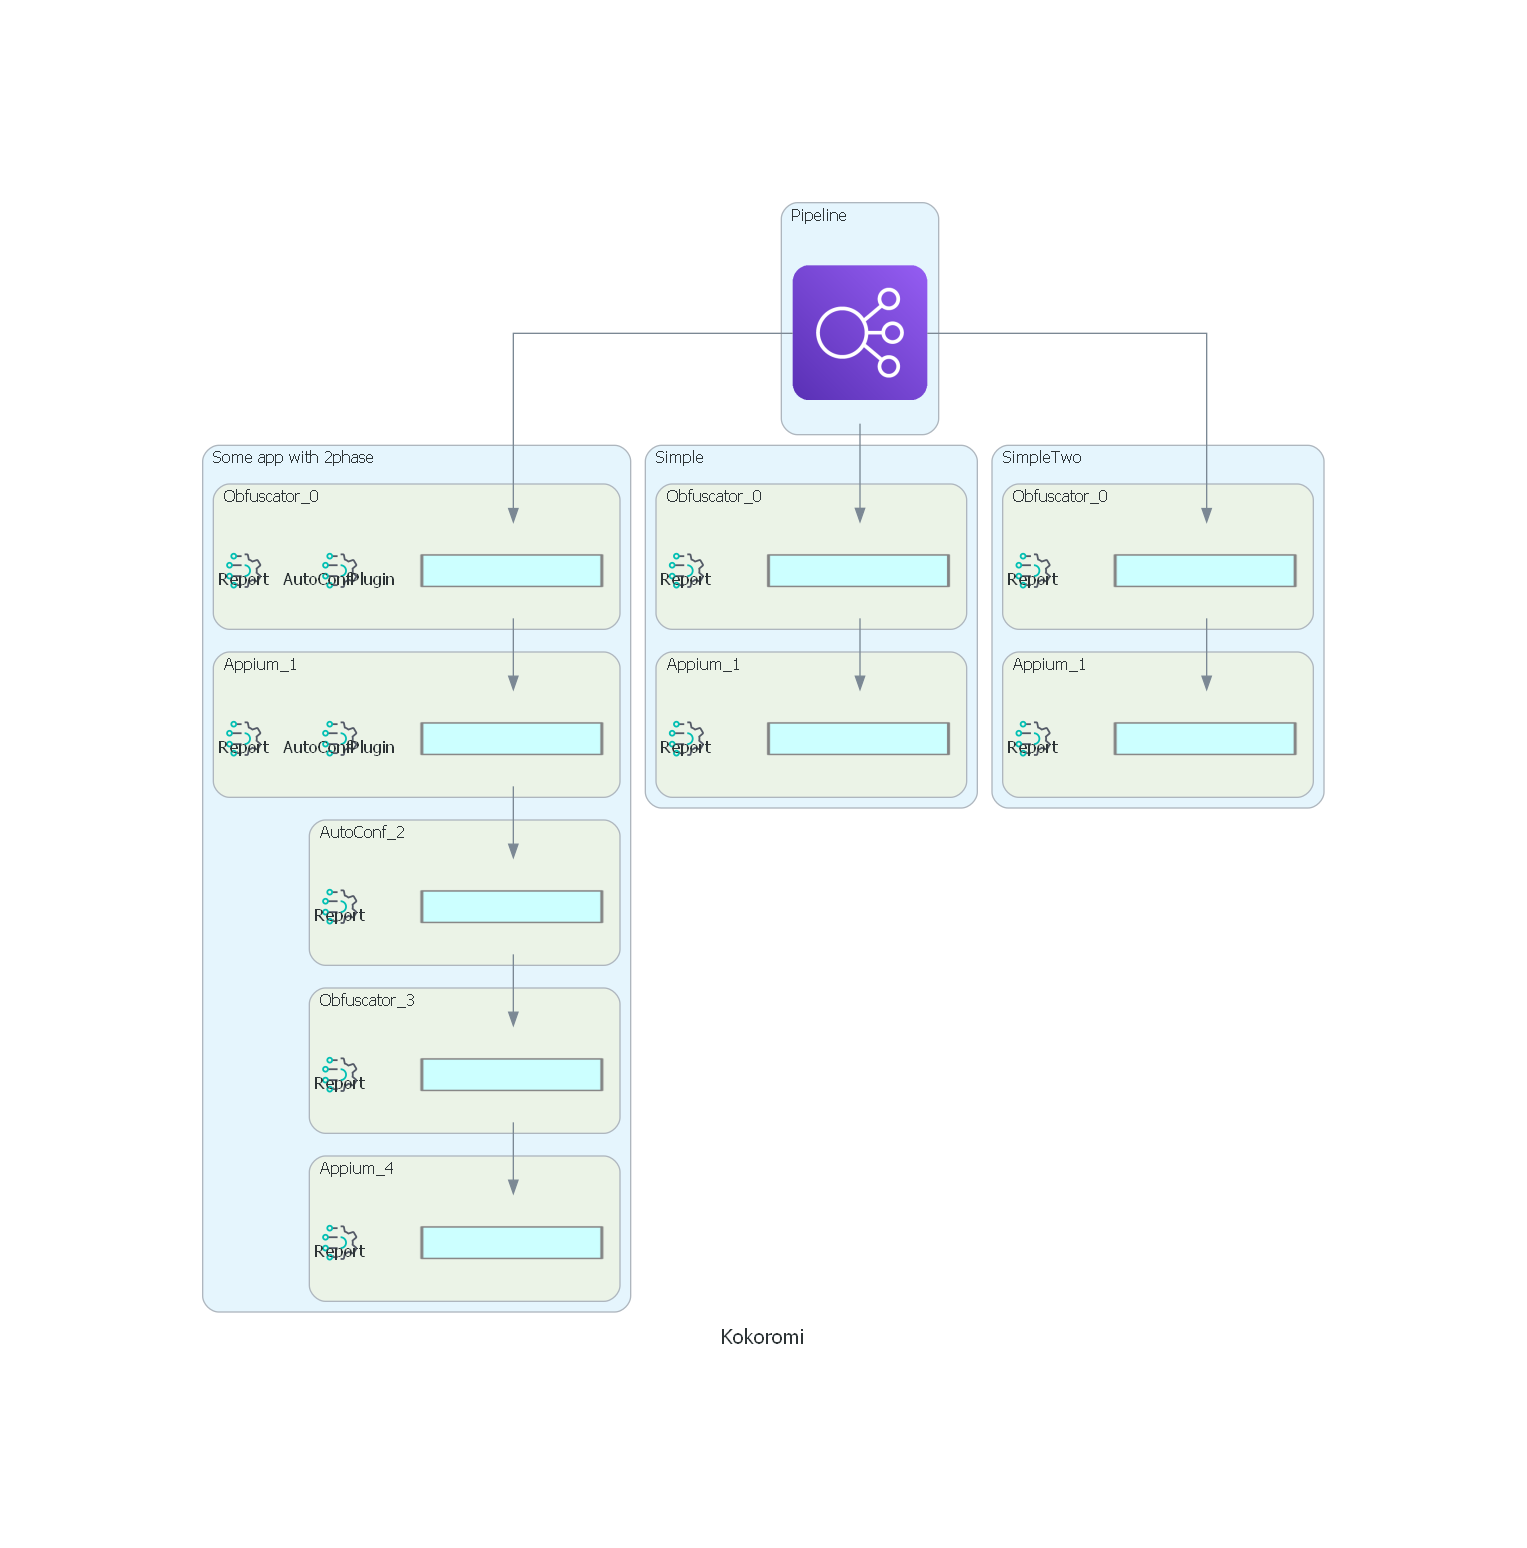
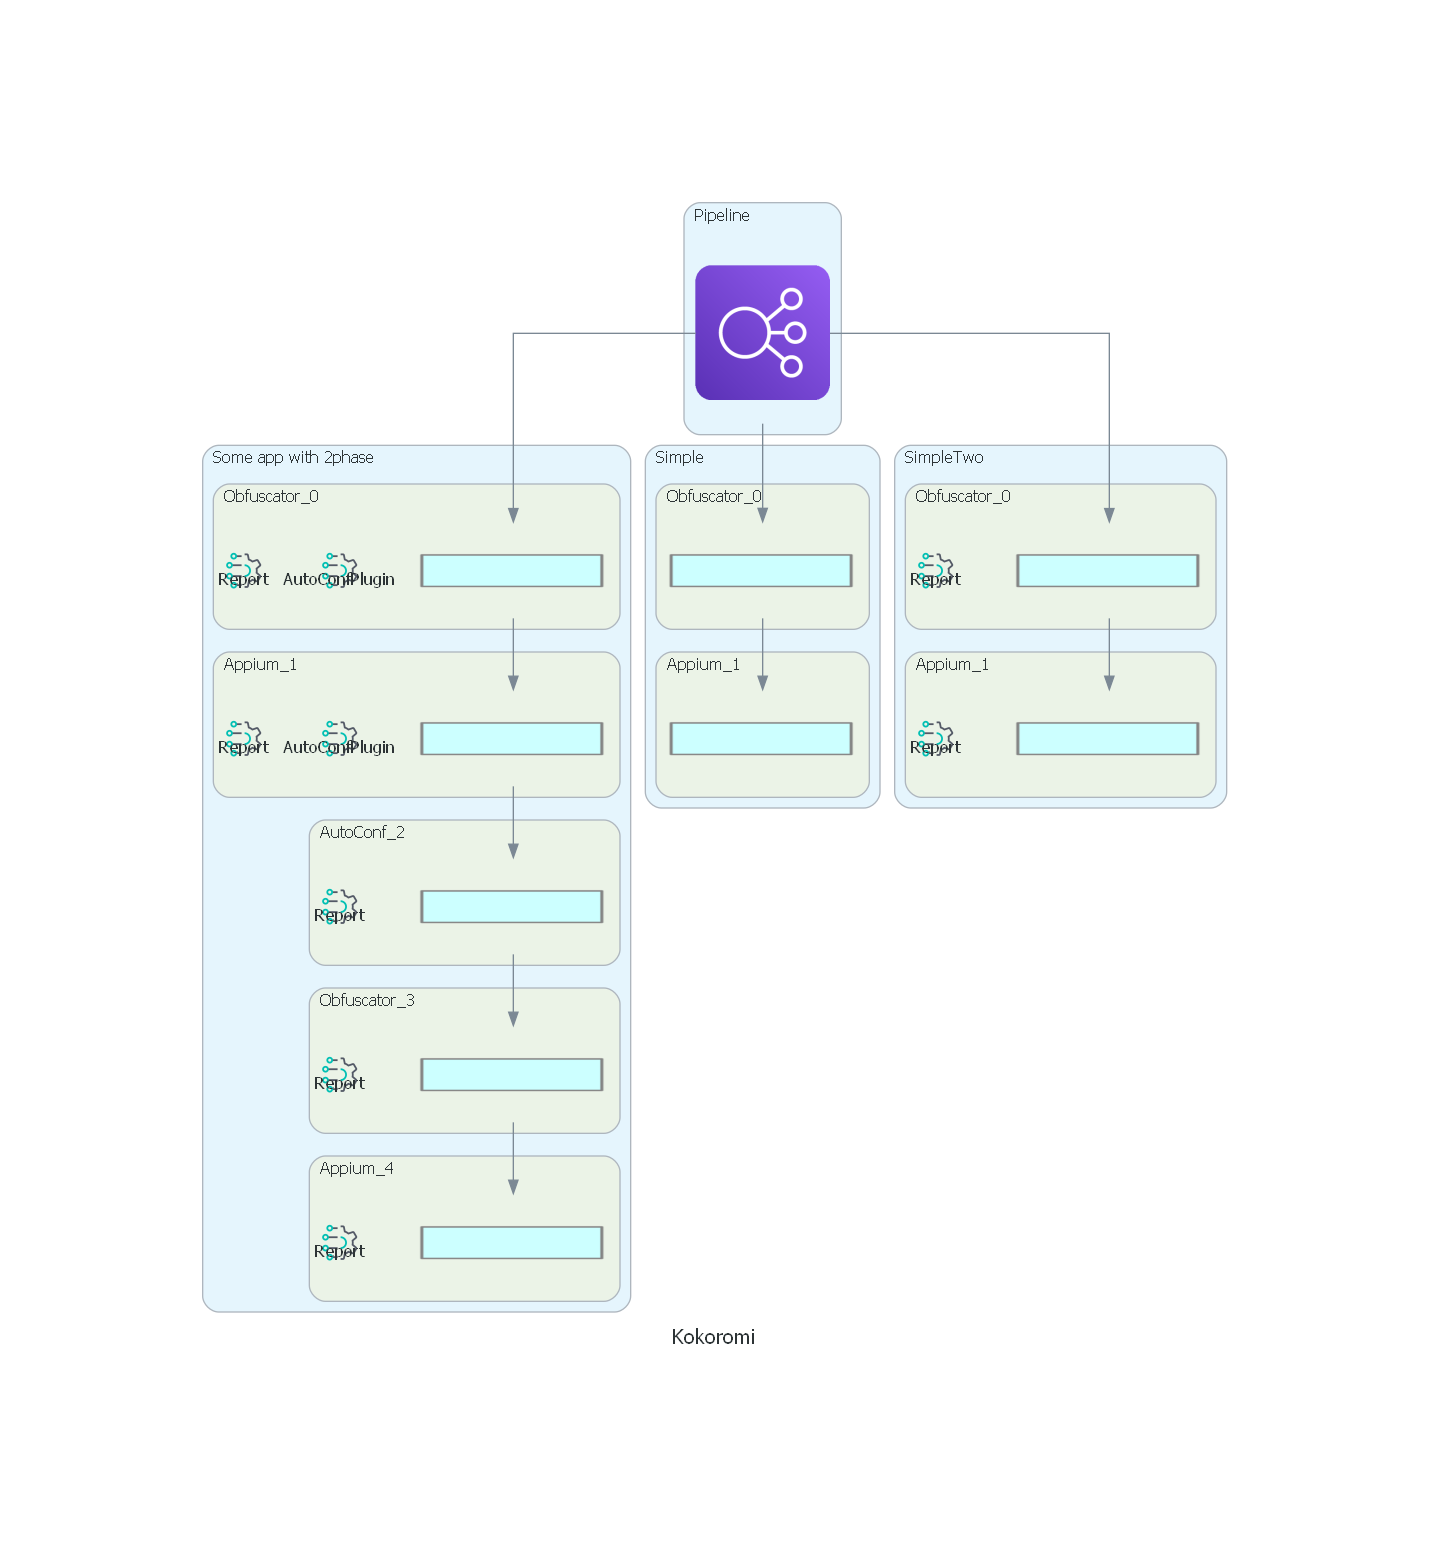
feat: add global stage config

diff --git a/lib/stages/visualizer.py b/lib/stages/visualizer.py
@@ -19,6 +19,10 @@ class Stage(stage.Stage):
 
     @classmethod
     def finish(cls):
+        config = Pipeline.instance().stage_config(Stage)
+        if not config.get('enabled'):
+            return
+
         with Diagram("Kokoromi", show=True, direction="TB"):
             with Cluster("Pipeline"):
                 pipeline = ELB()
@@ -29,14 +33,14 @@ class Stage(stage.Stage):
                     for idx, stage in enumerate(stages):
                         with Cluster(f"{stage.name}_{idx}"):
                             nodes.append(Action(
-                                width="2", 
-                                height="1", 
-                                imagescale="false", 
+                                width="2",
+                                height="1",
+                                imagescale="false",
                                 fixedsize="true"))
 
                             [Integrations(
-                                plugin.name, 
-                                height="0.4", 
+                                plugin.name,
+                                height="0.4",
                                 width="0.4") for plugin in stage.plugins]
 
                     # Connect one stage to the next

diff --git a/lib/pipeline.py b/lib/pipeline.py
@@ -11,6 +11,7 @@ class Pipeline:
         self.current_test_name : Optional[str] = None
         self.all_pipes : list[tuple[str, list[Stage]]] = []
         self.stages = stages
+        self.config : dict = {}
         Pipeline.INSTANCE = self
 
     @staticmethod
@@ -23,13 +24,20 @@ class Pipeline:
         stage = self.stages[name](self, config)
         return stage
 
+    def stage_config(self, stage: Stage):
+        return self.config.get(stage.class_name(), {})
+
     def execute(self):
         with open(self.config_path, 'r') as fp:
             config = yaml.safe_load(fp)
 
         assert config.get('version') == 2, 'Unsupported version'
 
-        # Start every stage at class level to prepare setup if any is needed. 
+        # Load global config, if any, and verify that each item is a valid Stage name.
+        self.config = config.get('config', {})
+        assert all(key in self.stages for key in self.config), "Invalid config provided"
+
+        # Start every stage at class level to prepare setup if any is needed.
         for stage in self.stages.values():
             stage.start()
 

diff --git a/lib/stages/report.py b/lib/stages/report.py
@@ -3,6 +3,8 @@ from .. import stage
 from ..pipeline import Pipeline
 from ..plugins import report_plugin
 
+from pprint import pprint
+
 class Stage(stage.Stage):
     all_outputs = {}
 
@@ -17,6 +19,11 @@ class Stage(stage.Stage):
 
     @classmethod
     def on_pipeline_created(cls):
+        test_name = Pipeline.instance().current_test_name
+        config = Pipeline.instance().stage_config(cls)
+        if test_name in config.get('skip', []):
+            return
+
         plugin = report_plugin.Plugin(Pipeline.instance(), None)
 
         for stg in Pipeline.instance().current_stages:
@@ -37,4 +44,4 @@ class Stage(stage.Stage):
     @classmethod
     def finish(cls):
         print(f'Building HTML report for pipe {Pipeline.instance()}')
-        print(Stage.all_outputs)
+        pprint(Stage.all_outputs)

diff --git a/lib/stage.py b/lib/stage.py
@@ -2,7 +2,9 @@ from __future__ import annotations
 from typing import Sequence
 import itertools as it
 import copy
+import inspect
 import logging
+import os
 
 from .plugin import Plugin
 
@@ -15,6 +17,12 @@ class Stage:
         self.base_outputs = base_outputs
         self.has_run = False
         self.plugins : List[Plugin] = []
+
+    @classmethod
+    def class_name(cls):
+        cls_name = inspect.getfile(cls)
+        cls_name = os.path.basename(cls_name)[:-3]
+        return cls_name
 
     @property
     def allows_failure(self) -> bool:
